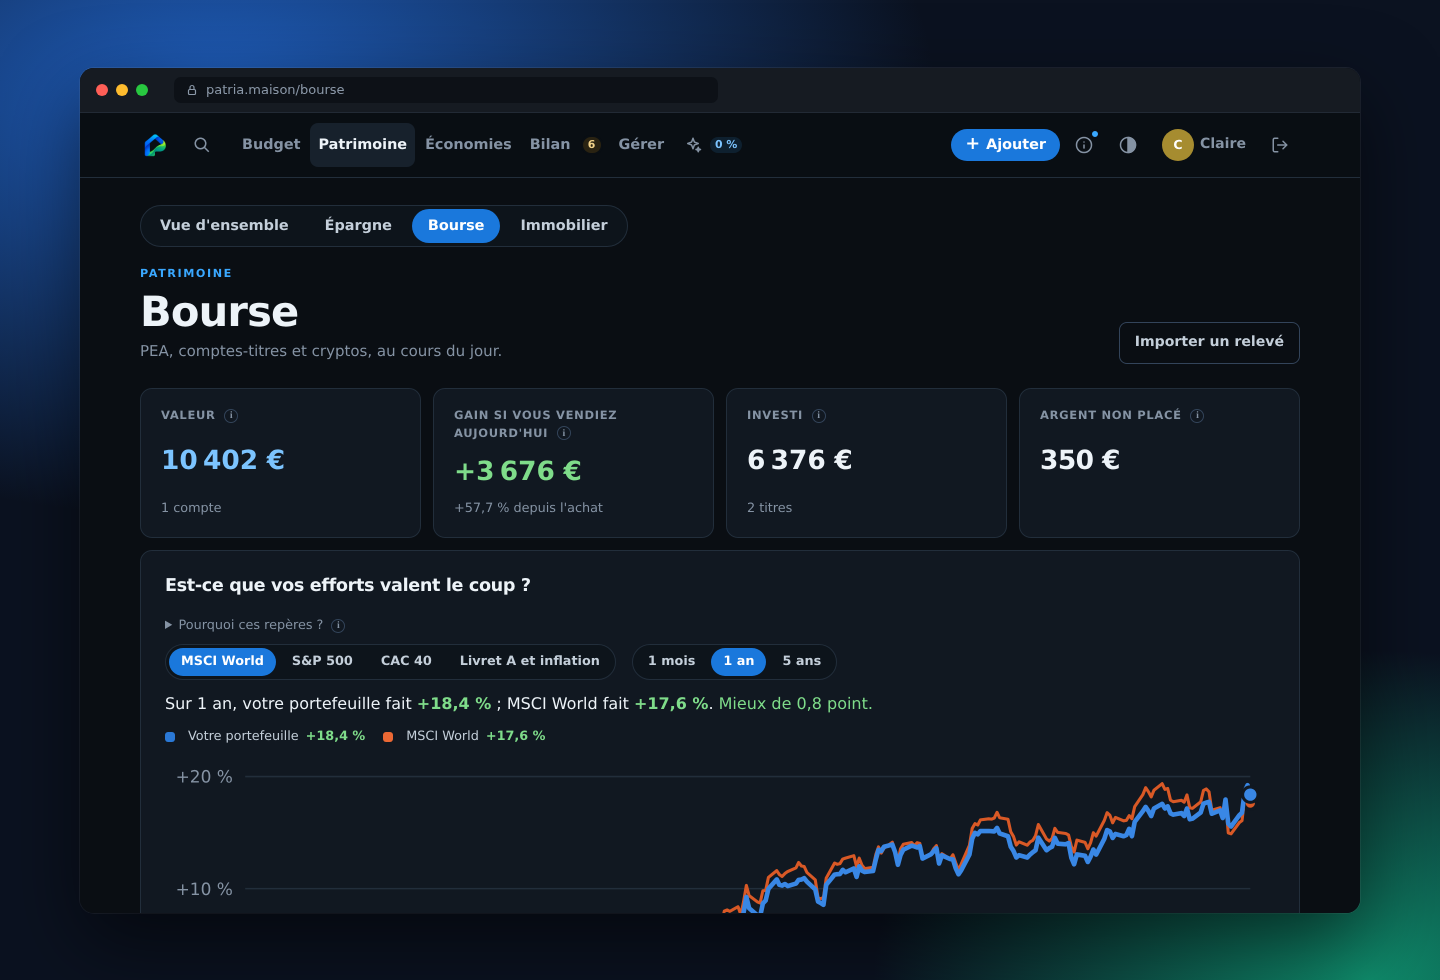
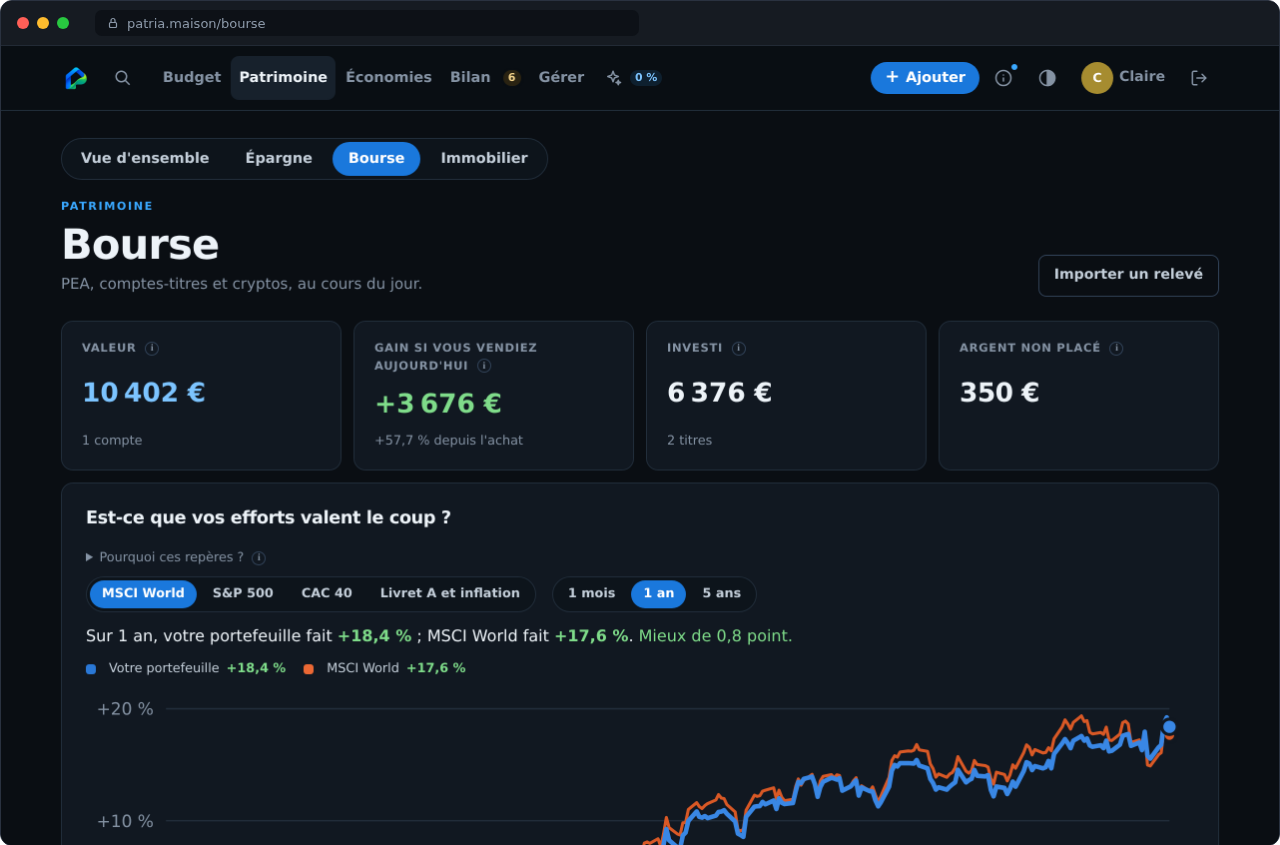
style: guide en icône seule, choix du compte arrondi, captures sans fond d'écran
Claude-Session: https://claude.ai/code/session_01132WvzNhfW6qzDSLGsh69p

diff --git a/scripts/captures/cadre.html b/scripts/captures/cadre.html
@@ -1,12 +1,11 @@
 <!doctype html>
 <!-- Cadre des captures de la documentation (rempli par make.sh) --><html><head><meta charset="utf-8"><style>
 html,body{margin:0}
-body{width:1440px;height:980px;display:flex;align-items:center;justify-content:center;font-family:system-ui,sans-serif;
-background:radial-gradient(1200px 700px at 15% 10%,#1f5fbf 0%,transparent 60%),radial-gradient(900px 600px at 95% 100%,#0f8a6a 0%,transparent 55%),#0b1220}
-.win{width:1280px;border-radius:14px;overflow:hidden;background:#0d1117;box-shadow:0 30px 80px rgba(0,0,0,.55),0 0 0 1px rgba(255,255,255,.08)}
+html,body{background:transparent;font-family:system-ui,sans-serif}
+.win{width:1278px;border-radius:12px;overflow:hidden;background:#0d1117;border:1px solid #2a3240}
 .bar{height:44px;display:flex;align-items:center;gap:8px;padding:0 16px;background:#161b22;border-bottom:1px solid #222a35}
 .dot{width:12px;height:12px;border-radius:50%}
 .url{margin-left:18px;flex:1;max-width:520px;height:26px;border-radius:7px;background:#0d1117;color:#8b98a8;font-size:13px;display:flex;align-items:center;padding:0 12px;gap:8px}
-img{display:block;width:1280px;height:800px}
+img{display:block;width:1278px;height:799px}
 </style></head><body><div class="win"><div class="bar"><span class="dot" style="background:#ff5f57"></span><span class="dot" style="background:#febc2e"></span><span class="dot" style="background:#28c840"></span>
 <span class="url">{{LOCK}} {{URL}}</span></div><img src="{{IMAGE}}"></div></body></html>

diff --git a/src/main/resources/static/css/parts/04-budget.css b/src/main/resources/static/css/parts/04-budget.css
@@ -148,13 +148,13 @@ tfoot small { font-weight: 400; }
 .watch li.serious::before { color: var(--danger); content: "▲"; font-size: .75rem; top: 7px; }
 
 /* ---- Budget : foyer ou personne ---- */
-.scope-tabs { background: var(--surface); border: 1px solid var(--line); border-radius: 99px; display: inline-flex; flex-wrap: wrap; gap: 4px; margin: -6px 0 18px; padding: 4px; }
-.scope-tabs a { border-radius: 99px; color: var(--muted); font-size: .88rem; font-weight: 700; max-width: 100%; overflow-wrap: anywhere; padding: 6px 16px; text-decoration: none; white-space: normal; }
+.scope-tabs { background: var(--segmented-bg); border: 1px solid var(--line); border-radius: 999px; display: inline-flex; flex-wrap: wrap; gap: 2px; margin: -6px 0 18px; padding: 3px; }
+.scope-tabs a { border-radius: 999px; color: var(--text-soft); font-weight: 650; max-width: 100%; overflow-wrap: anywhere; padding: 6px 16px; text-decoration: none; white-space: normal; }
 .scope-tabs a:hover { color: var(--text); }
 .scope-tabs a.active { background: var(--blue-deep); color: #fff; }
-/* Smartphone : les noms passent sur deux lignes, un cadre rectangulaire reste net */
+/* Smartphone : toute la largeur, toujours arrondi comme le choix Prévisionnel / Moyen */
 @media (max-width: 560px) {
-    .scope-tabs { border-radius: var(--radius-small); display: flex; }
+    .scope-tabs { display: flex; }
     .scope-tabs a { flex: 1 1 auto; text-align: center; }
 }
 

diff --git a/src/main/java/fr/patria/ui/Layout.java b/src/main/java/fr/patria/ui/Layout.java
@@ -233,7 +233,7 @@ public final class Layout {
                 <a href="/bilan"%s aria-label="Bilan de santé" title="Bilan de santé">Bilan<span class="nav-count warning" data-warning-count hidden></span></a>""",
                 Html.raw(section == Section.HEALTH ? " class=\"active\" aria-current=\"page\"" : ""));
         Html guide = Html.of("""
-                <a href="/assistant"%s aria-label="Guide de saisie" title="Guide de saisie">%s<span class="menu-only">Guide de saisie</span><span class="nav-count guide-count" data-guide-progress hidden></span></a>""",
+                <a href="/assistant"%s aria-label="Guide de saisie" title="Guide de saisie">%s<span class="nav-count guide-count" data-guide-progress hidden></span></a>""",
                 Html.raw(section == Section.ASSISTANT ? " class=\"nav-guide active\" aria-current=\"page\"" : " class=\"nav-guide\""), ASSISTANT_ICON);
         // Cinq entrees : Patrimoine regroupe l'epargne, la bourse et l'immobilier (onglets en haut de ces pages).
         boolean wealth = section == Section.WEALTH || section == Section.SAVINGS || section == Section.STOCKS || section == Section.REAL_ESTATE;

diff --git a/docs/developpement.md b/docs/developpement.md
@@ -18,14 +18,14 @@ Serveur HTTP natif du JDK, SQLite, montants au centime, HTML généré côté se
 
 ## Captures de la documentation
 
-Les captures de `docs/captures` (README et guide d'utilisation) montrent un foyer fictif, en thème sombre, dans un cadre de navigateur. Pour les refaire après un changement d'interface :
+Les captures de `docs/captures` (README et guide d'utilisation) montrent un foyer fictif, en thème sombre, dans une fenêtre de navigateur, sans fond d'écran. Pour les refaire après un changement d'interface :
 
 ```bash
 mvn -q package -DskipTests
 scripts/captures/make.sh
 ```
 
-Le script lance Patria sur une base temporaire (port 8096, `PORT` pour en changer), crée le foyer fictif (`seed.sh` : Claire, Thomas, compte joint, revenus, dépenses, épargne, bourse, un appartement et son prêt `pret.csv`), capture chaque page connectée avec Chromium (`shoot.mjs`, protocole DevTools : les graphiques chargés en JavaScript sont inclus), la pose dans `cadre.html`, puis efface la base. Il faut `chromium` et Node 22 ou plus. Les cours de bourse viennent de Yahoo Finance : sans réseau, le graphique de la Bourse reste vide.
+Le script lance Patria sur une base temporaire (port 8096, `PORT` pour en changer), crée le foyer fictif (`seed.sh` : Claire, Thomas, compte joint, revenus, dépenses, épargne, bourse, un appartement et son prêt `pret.csv`), capture chaque page connectée avec Chromium (`shoot.mjs`, protocole DevTools : les graphiques chargés en JavaScript sont inclus), la pose dans une fenêtre de navigateur (`cadre.html`, fond transparent), puis efface la base. Il faut `chromium` et Node 22 ou plus. Les cours de bourse viennent de Yahoo Finance : sans réseau, le graphique de la Bourse reste vide.
 
 ## Maintenance des coefficients
 
